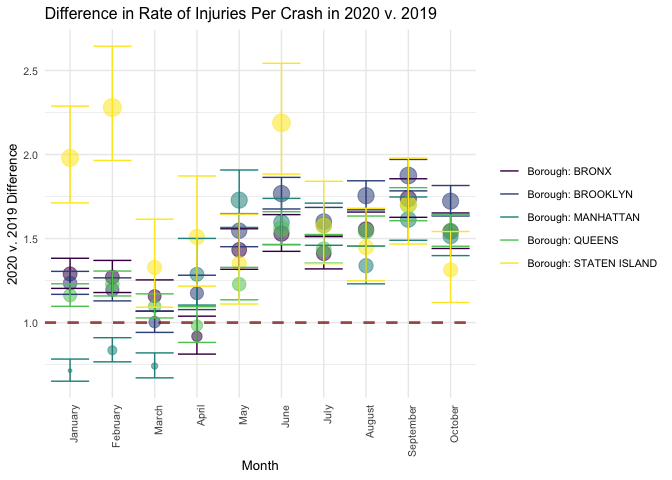
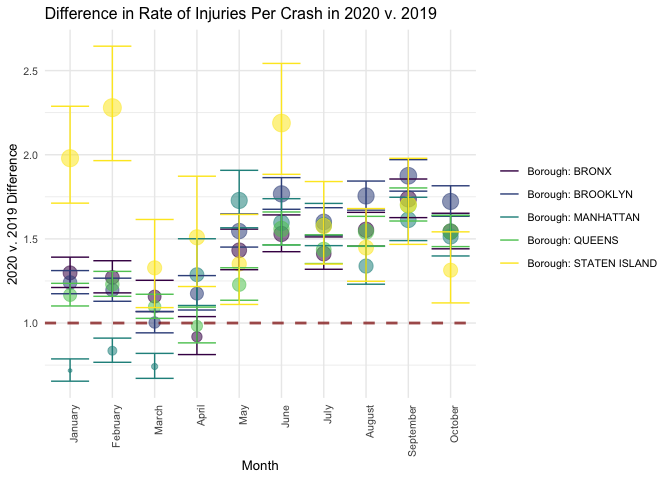
updated map to focus on cyclist injuries

diff --git a/20201113_import_tidy.md b/20201113_import_tidy.md
@@ -100,15 +100,15 @@ fit_injuries_month
     ##    month    term                                 estimate std.error  p.value
     ##    <ord>    <chr>                                   <dbl>     <dbl>    <dbl>
     ##  1 January  (Intercept)                            -1.41     0.0143 0.      
-    ##  2 January  2020 v. 2019, Borough: BRONX            0.255    0.0354 6.36e-13
-    ##  3 January  2020 v. 2019, Borough: BROOKLYN         0.211    0.0282 8.32e-14
-    ##  4 January  2020 v. 2019, Borough: MANHATTAN       -0.337    0.0469 7.56e-13
-    ##  5 January  2020 v. 2019, Borough: QUEENS           0.150    0.0294 3.27e- 7
+    ##  2 January  2020 v. 2019, Borough: BRONX            0.261    0.0354 1.69e-13
+    ##  3 January  2020 v. 2019, Borough: BROOKLYN         0.216    0.0283 2.21e-14
+    ##  4 January  2020 v. 2019, Borough: MANHATTAN       -0.332    0.0470 1.63e-12
+    ##  5 January  2020 v. 2019, Borough: QUEENS           0.154    0.0294 1.58e- 7
     ##  6 January  2020 v. 2019, Borough: STATEN ISLAND    0.683    0.0739 2.59e-20
     ##  7 February (Intercept)                            -1.44     0.0149 0.      
-    ##  8 February 2020 v. 2019, Borough: BRONX            0.240    0.0383 3.91e-10
-    ##  9 February 2020 v. 2019, Borough: BROOKLYN         0.179    0.0292 9.90e-10
-    ## 10 February 2020 v. 2019, Borough: MANHATTAN       -0.180    0.0438 3.96e- 5
+    ##  8 February 2020 v. 2019, Borough: BRONX            0.240    0.0383 3.77e-10
+    ##  9 February 2020 v. 2019, Borough: BROOKLYN         0.179    0.0292 9.46e-10
+    ## 10 February 2020 v. 2019, Borough: MANHATTAN       -0.180    0.0438 4.05e- 5
     ## # … with 62 more rows
 
 It seems like what this is looking at is the number of persons injured
@@ -276,7 +276,7 @@ crash_map_boro =
   crash_dat %>% 
   drop_na(c(latitude, longitude, borough)) %>% 
   filter(str_detect(vehicle_options, "[Bb]ike"))  %>% 
-  filter(number_of_persons_injured > 0) %>% 
+  filter(number_of_cyclist_injured > 0) %>% 
   mutate(
     text_label = str_c("Crash Time: ", crash_time, "\nNumber of Persons Injured: ", number_of_persons_injured)) %>% 
   plot_mapbox(
@@ -330,8 +330,7 @@ crash_map_density =
   crash_dat %>% 
   drop_na(c(latitude, longitude)) %>% 
   filter(str_detect(vehicle_options, "[Bb]ike"))  %>% 
-  filter(year == "2019") %>% 
-  filter(number_of_persons_injured > 0) %>% 
+  filter(number_of_cyclist_injured > 0) %>% 
   mutate(
     text_label = str_c("Crash Time: ", crash_time, "\nNumber of Persons Injured: ", number_of_persons_injured)) %>% 
   plot_ly(
